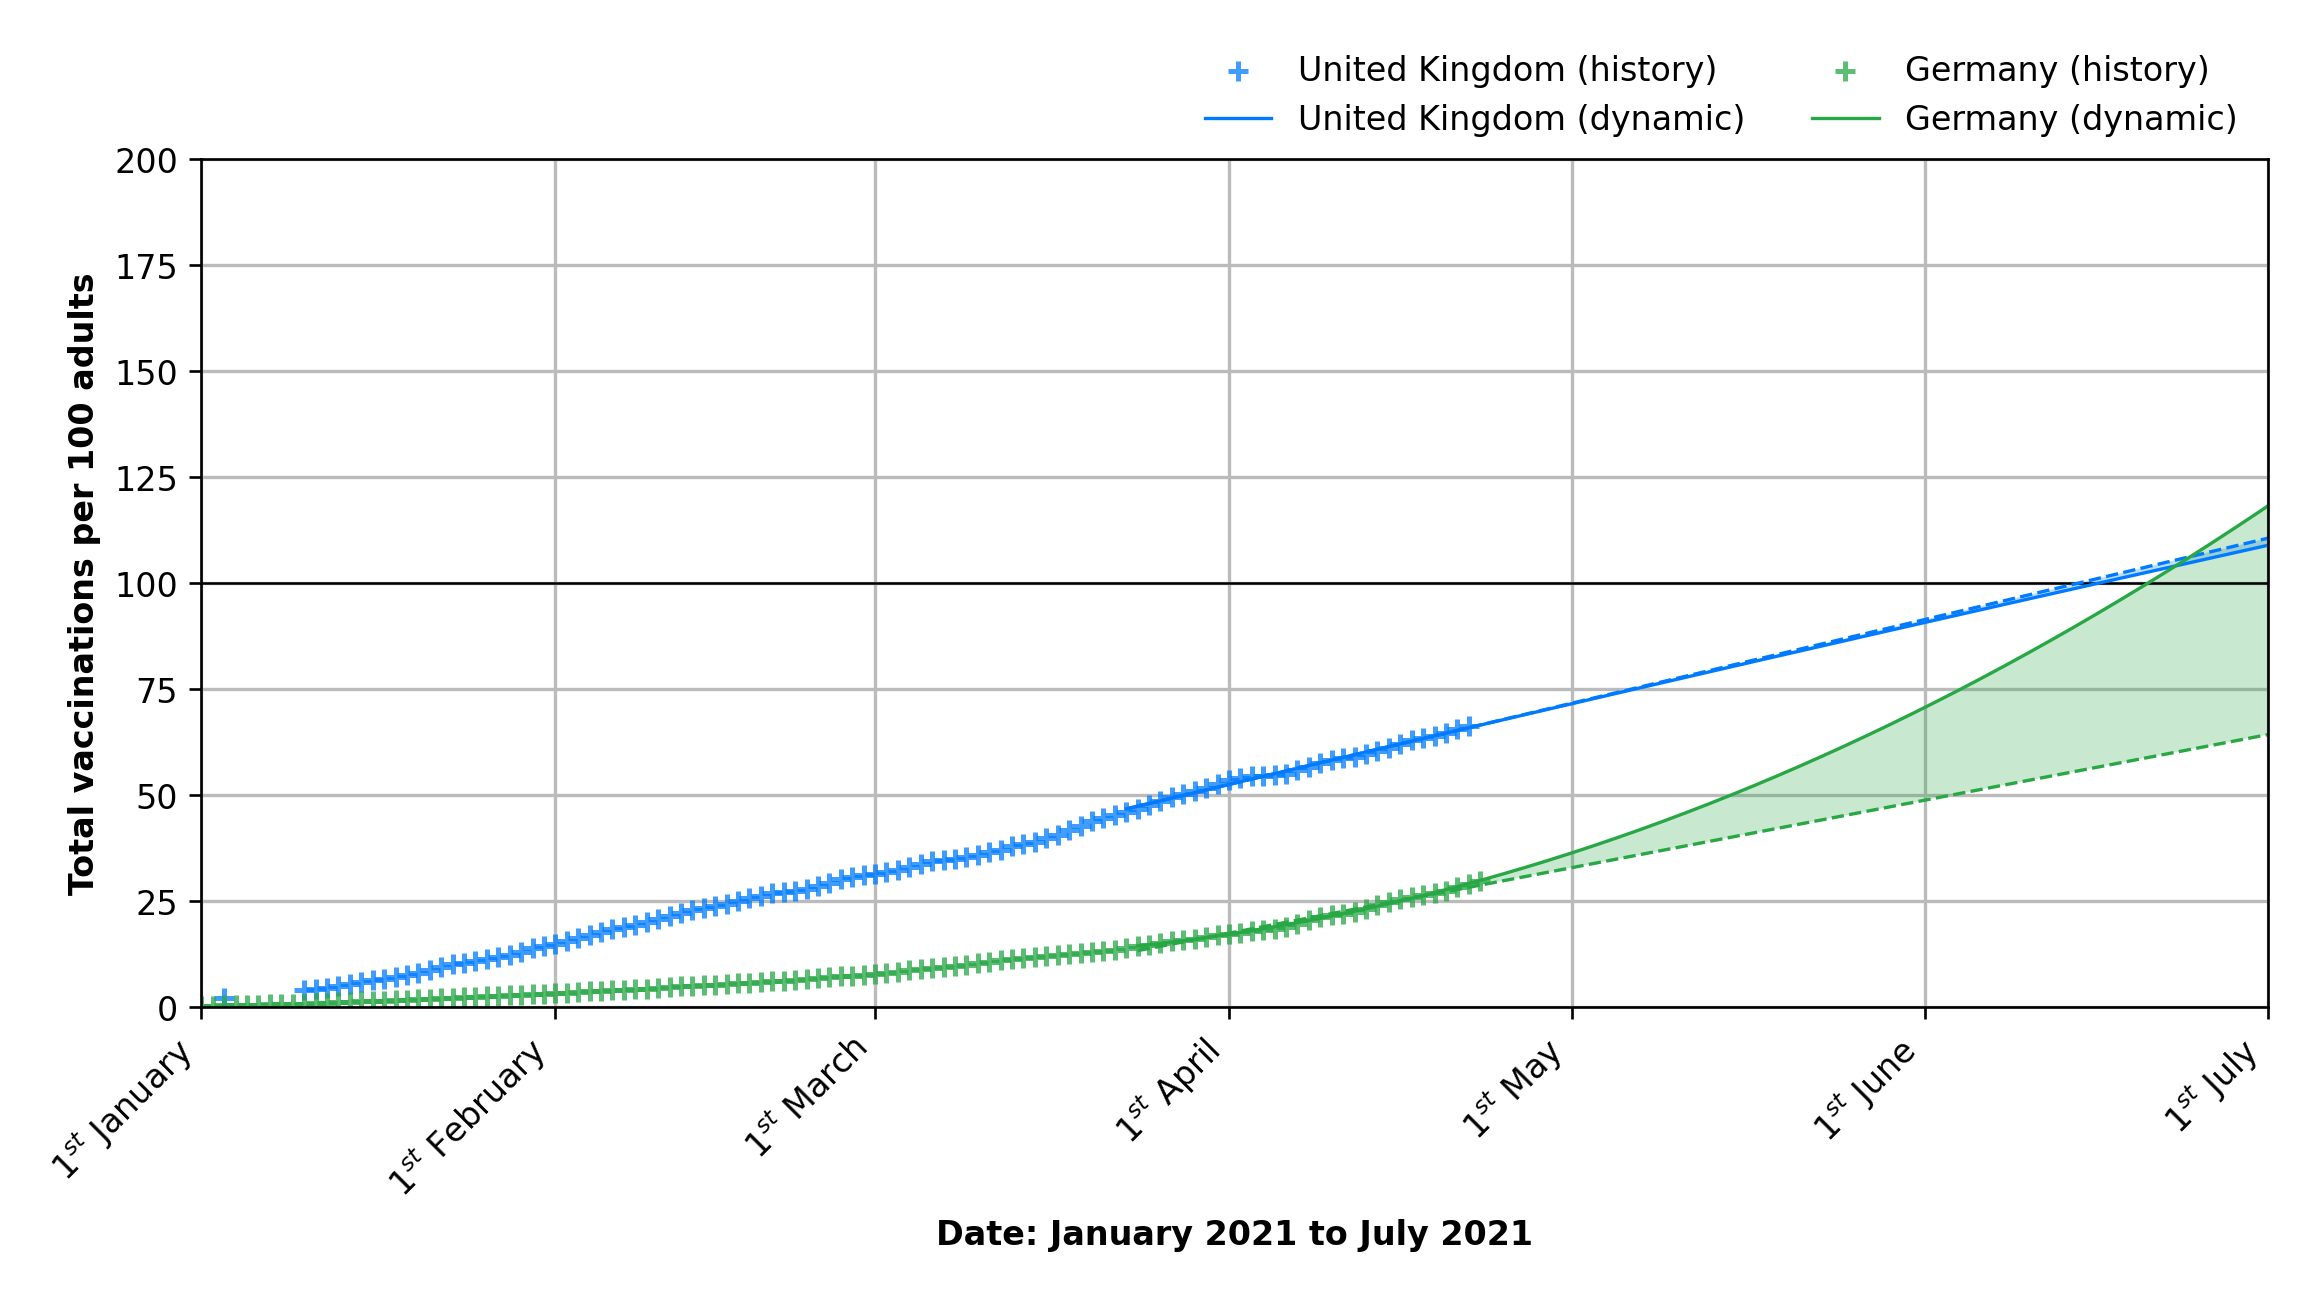
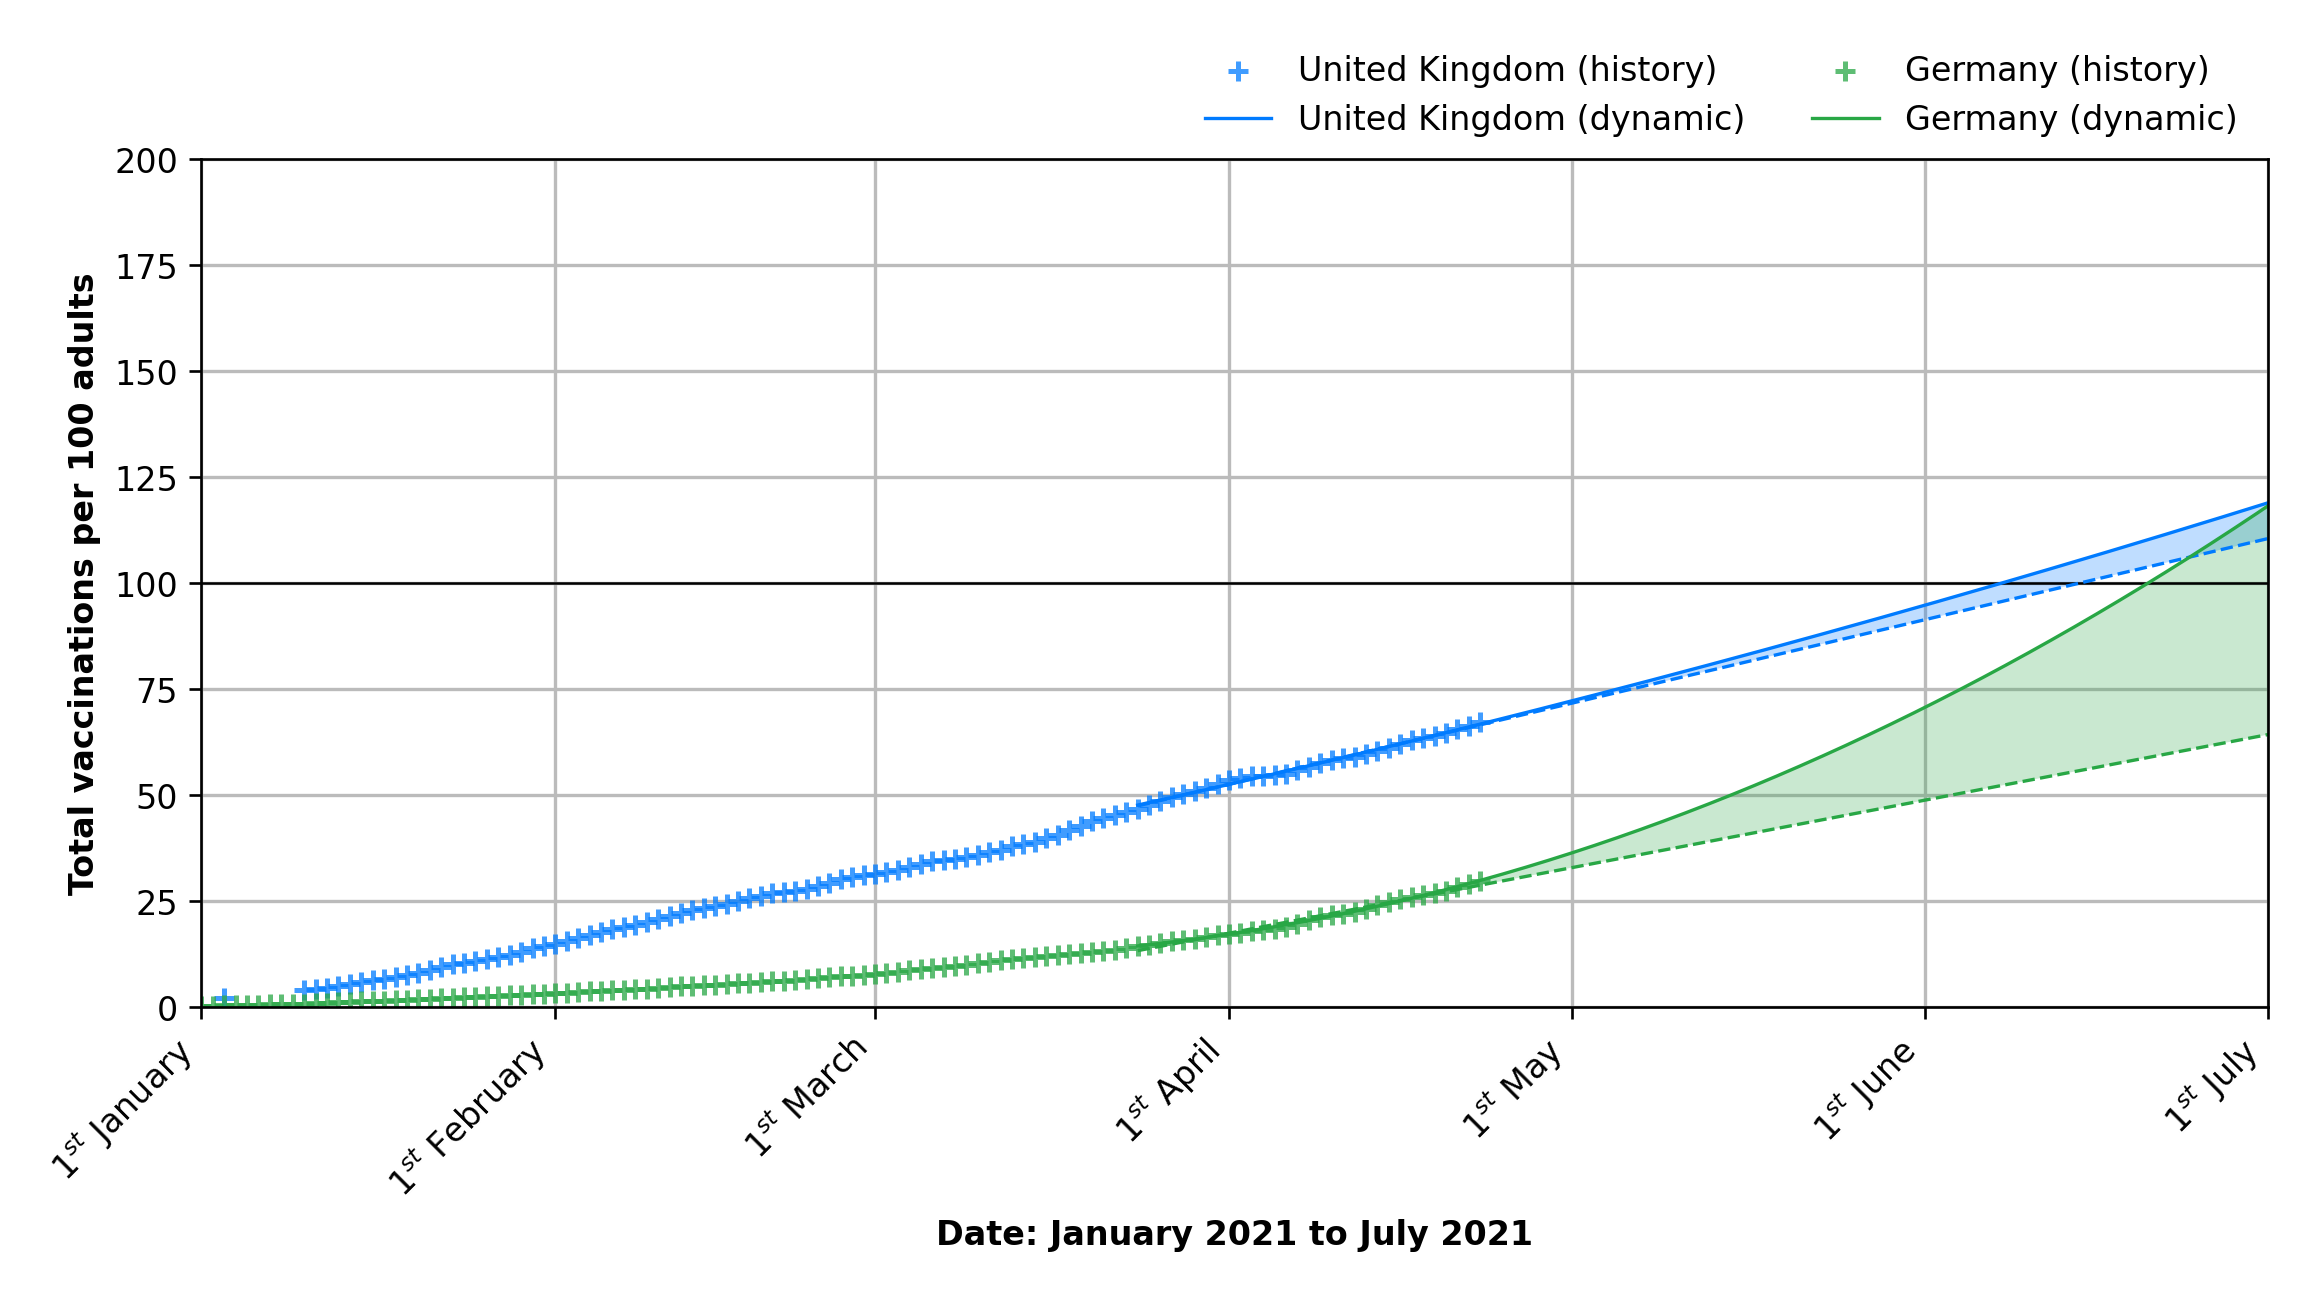
Deploying to gh-pages from @ lambdapioneer/vactrend@0b151e50bae144ff27c39ffb07cd62d871ed93a9 🚀

Changed region(s): [[0.7188, 0.3707, 1.0, 0.5251], [0.6562, 0.5251, 0.7188, 0.556]]

diff --git a/index.html b/index.html
@@ -37,13 +37,13 @@
                 <div class="card">
                     <div class="card-header">🇬🇧 United Kingdom</div>
                     <div class="card-body">
-                        <h3 class="font-weight-bold" style="color: #007bff">66.31 <small>(+0.83/d)</small></h3>
+                        <h3 class="font-weight-bold" style="color: #007bff">67.14 <small>(+0.83/d)</small></h3>
                         <p class="mt-n2">Vaccinations per 100 adults</p>
-                        <h3 class=" font-weight-bold">15 June 2021</h3>
+                        <h3 class=" font-weight-bold">08 June 2021</h3>
                         <p class="mt-n2">Earliest day: 100 vacc. per 100 adults</p>
-                        <h3 class=" font-weight-bold">18 November 2021</h3>
+                        <h3 class=" font-weight-bold">25 September 2021</h3>
                         <p class="mt-n2">Earliest day: 200 vacc. per 100 adults</p>
-                        <p class="card-text"><small class="text-muted">Last data from 22 April 2021.</small></p>
+                        <p class="card-text"><small class="text-muted">Last data from 23 April 2021.</small></p>
                     </div>
                 </div>
             </div>
